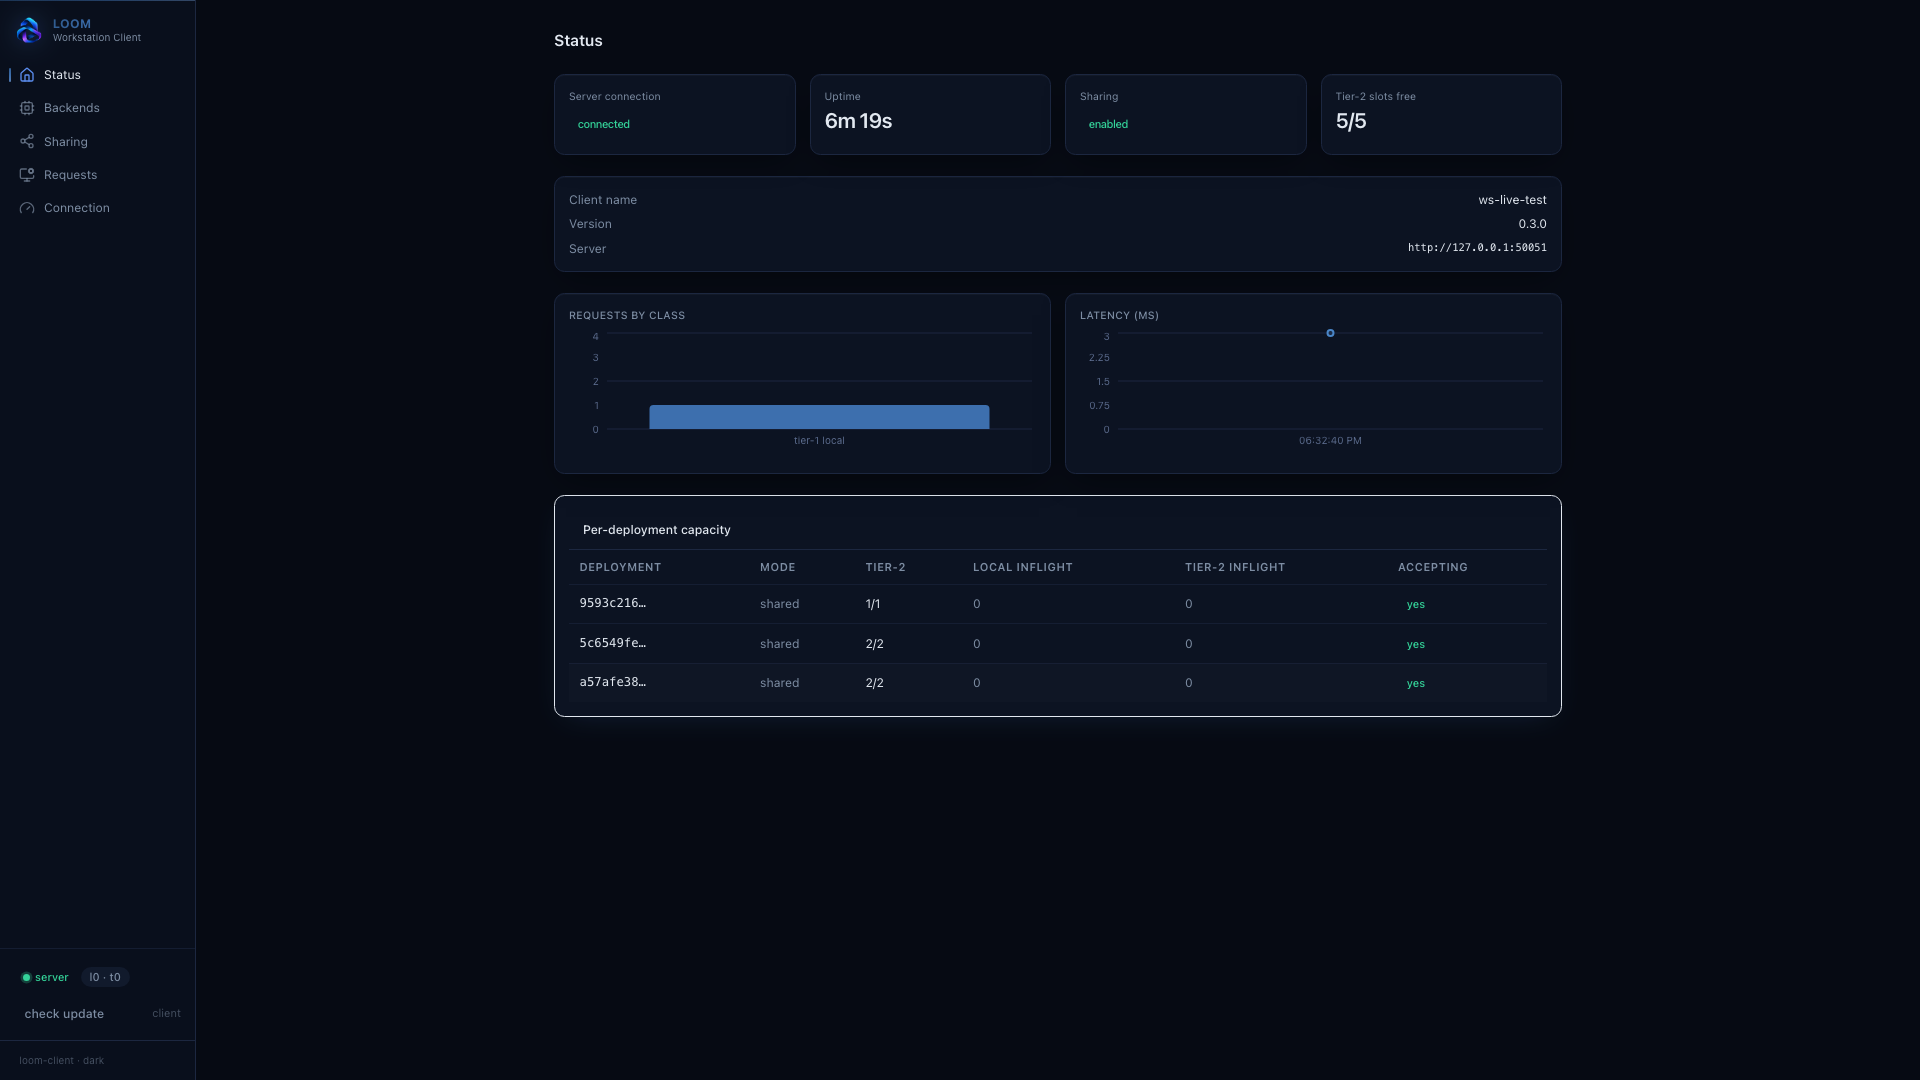
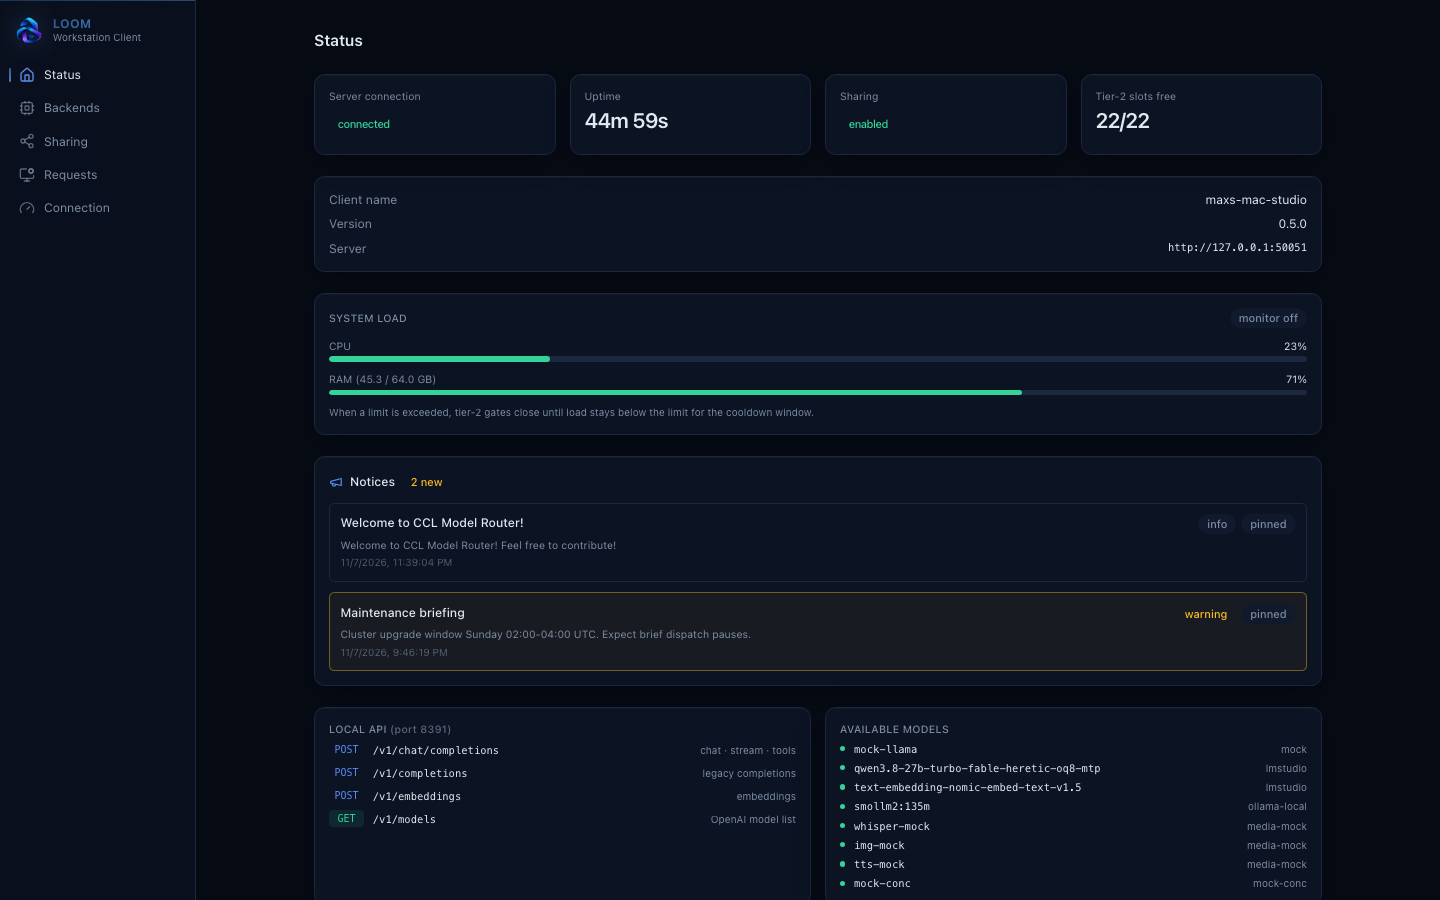
Docs: refresh screenshots, fix mojibake headers, add alert boxes
- Fresh dark-theme screenshots (login, overview, client UI)
- README: [!IMPORTANT] local-first invariant, [!TIP] port split,
  [!NOTE] strict media caps, [!WARNING] credential handling,
  [!CAUTION] manual binary swaps bypass the boot watchdog
- Queue semantics updated (structural vs transient shortage,
  Retry-After on 429); roadmap marks shipped features
- protocol.md gains a queue-semantics section

Generated with [Devin](https://devin.ai)

diff --git a/README.md b/README.md
@@ -120,6 +120,11 @@ It only ever talks to clients — over a client-initiated, TLS-secured gRPC
 channel — and the client's local admission control has the final word on
 every single request.
 
+> [!IMPORTANT]
+> Local-first is an invariant, not a configuration: the workstation owner
+> always wins. Central requests only ever consume *offered* tier-2 slots,
+> and the offer shrinks to zero automatically under local CPU/RAM pressure.
+
 <details>
 <summary><b>📡 The channel split (click to expand)</b></summary>
 
@@ -161,6 +166,12 @@ docker compose --profile full up -d
 ```
 
 Open `https://localhost/` → the setup wizard creates your first admin.
+
+> [!TIP]
+> The split ports are deliberate: the dashboard/API live on the HTTP port
+> (`8080` by default, behind your TLS proxy), while clients connect to the
+> gRPC port (`50051`) — only the gRPC port needs to be reachable from
+> workstations.
 
 ### Workstation (one command)
 
@@ -308,6 +319,11 @@ config); routing, grants, scopes and rate limits apply exactly like chat.
 Generic OpenAI-compatible and vLLM adapters forward media requests; async
 video *job polling* is not routed yet — creation requests only.
 
+> [!NOTE]
+> Media capabilities are opt-in and strict: a vision/image/audio/video
+> request is never routed to a deployment without the explicit flag —
+> unknown or probed-default capabilities only open the text APIs.
+
 **Readiness-aware routing.** Clients probe their backends every ~10s —
 endpoint health, installed models, and (for Ollama, vLLM, llama.cpp) the
 *actually loaded* set. A deployment whose backend is down or whose model was
@@ -322,6 +338,12 @@ deployments re-warm right away and rejoin once resident again.
   their original position
 - Weighted DRR share between projects inside a class
 - Global queue cap → clean `429 overloaded` instead of collapse
+- `429` responses carry **`Retry-After`** — `1s` for concurrency limits,
+  `60s / rpm_limit` for per-minute windows
+- Structural vs. transient shortage: requests whose members are *all*
+  unreachable fail fast (`all deployments unavailable`, `max_attempts`
+  counted) instead of head-of-line blocking their class queue; requests
+  behind merely-*busy* members wait for their deadline
 - At most **2 candidate retries** before stream start — none after (no
   double-generation ever)
 
@@ -342,11 +364,17 @@ deployments re-warm right away and rejoin once resident again.
   (Argon2 + HttpOnly session cookie) — or to keep the API open for local use.
   Alternatively set `local_api.api_key` in `config.toml` (written `0600`) to
   require a Bearer key; both auth paths are optional
+
+> [!WARNING]
+> Treat device credentials and `sk-…` API keys as secrets: they are only
+> shown once at issue time, stored hashed server-side, and a leaked device
+> credential enrolls *workloads*, not people — revoke it in the dashboard
+> (Clients → Suspend) rather than rotating config files.
 - **Prompts and responses are never persisted** — not in Postgres, Redis,
   logs, or metrics
 - gRPC fencing tokens make stale assignments harmless after reconnects
 
-### � Auto-updates (server-triggered, signature-verified)
+### 🔄 Auto-updates (server-triggered, signature-verified)
 
 Tagged releases (`v*`) build signed binaries for Linux/macOS/Windows on
 x86-64 and ARM64 via `.github/workflows/release.yml`. Artifacts are
@@ -379,7 +407,13 @@ x86-64 and ARM64 via `.github/workflows/release.yml`. Artifacts are
   `MINISIGN_SECRET_KEY` repo secret is set (generate with
   `minisign -G -p loom-release.pub -s loom-release.key -W`).
 
-### �📟 The dashboard
+> [!CAUTION]
+> Always swap client binaries **through the updater** — a manual binary
+> replacement bypasses the pending-boot marker, so the watchdog can neither
+> count the boots nor auto-rollback on a crash loop (e.g. a binary built
+> for a newer glibc than the host's).
+
+### 📟 The dashboard
 
 Dark-only, zero build config needed at deploy time: live client status, queue
 depths, virtual-model editor with member management, project/API-key/user
@@ -464,10 +498,15 @@ docs/              ADRs, protocol spec, security model, runbooks
 - [x] Update-check chip in both UIs (compares against latest release)
 - [x] Native client install: systemd (Linux), `.app` bundle + launchd + menu-bar tray (macOS)
 - [x] Installer + self-update pipeline
+- [x] Signed release artifacts (minisign) + staged smoke test + boot-failure
+  watchdog with automatic `.prev` rollback
+- [x] Media endpoints: image generation, TTS/STT/translation, video creation
+- [x] Auto routers: LLM-classified, deterministic `when`-rules and
+  `reasoning_effort` escalation via member `set` overrides
+- [x] API Users: per-user keys, model grants, scopes, RPM/TPM/concurrency
 - [ ] mTLS for agent channel (TLS + device credential today)
 - [ ] TPM metering (best-effort), project quotas
 - [ ] Multi-replica scheduler coordination
-- [ ] Signed release artifacts (minisign)
 
 ---
 

diff --git a/docs/protocol.md b/docs/protocol.md
@@ -108,6 +108,17 @@ after reconnect, lease expiry and dispatcher retries.
 - Leases held by a client that goes offline are resolved atomically:
   `reserved` leases requeue their request, `active` leases fail the request.
 
+## Queue semantics (server-side)
+
+- Requests enter a per-priority-class queue when no member has free
+  tier-2 capacity, keeping their original FIFO position across requeues.
+- Shortage kinds are distinguished: a member being **busy** is transient
+  (request waits until its deadline); **all members unreachable** is
+  structural — the request is counted against `max_attempts` and then
+  fails `unavailable`, so it cannot head-of-line block the class.
+- Client-visible `429` responses include `Retry-After`
+  (`1s` concurrency, `60s / rpm_limit` for rate windows).
+
 ## Error codes (data `error` frames / RequestEnd)
 
 `admission_rejected`, `capacity_decreased`, `backend_unavailable`,
